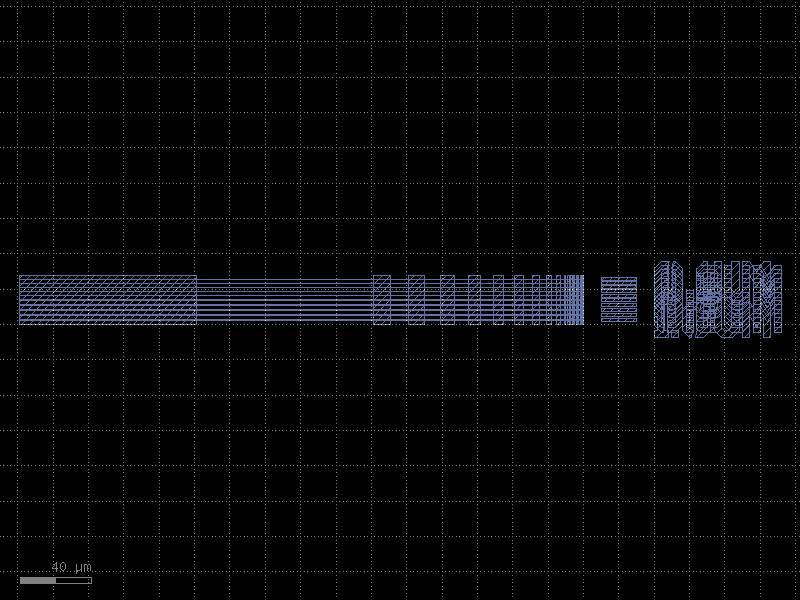
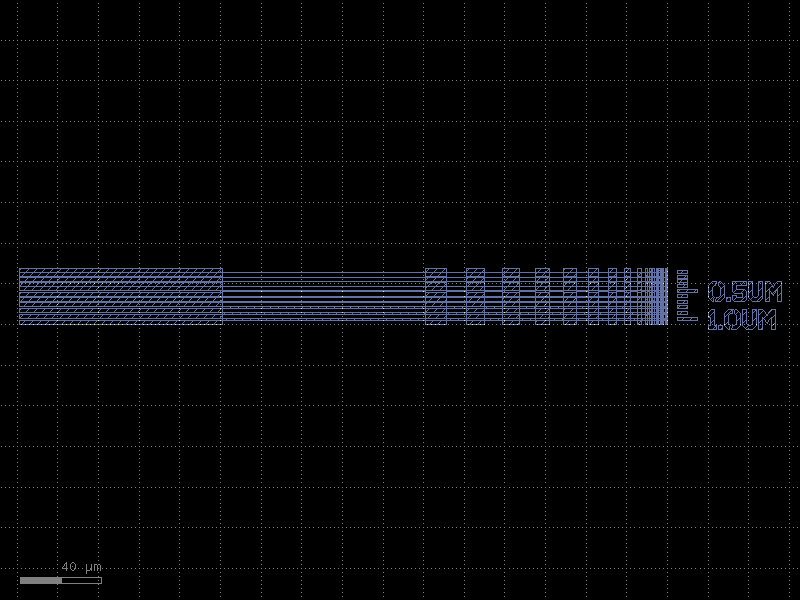
change checkerboard default args nd docstring

Changed region(s): [[0.0, 0.42, 1.0, 0.57], [0.0625, 0.93, 0.125, 0.96]]

diff --git a/src/qnngds/test_structures.py b/src/qnngds/test_structures.py
@@ -374,15 +374,15 @@ def _litho_steps(
 def litho_checkerboard(
     resolutions: List[float] = [0.1, 0.2, 0.3, 0.4, 0.5, 0.6, 0.7, 0.8, 0.9, 1.0],
     layer: LayerSpec = (2, 0),
-    label_interval: int = -1,
-    label_size: float = 20,
+    label_interval: int = 5,
+    label_size: float = 10,
 ) -> gf.Component:
     """Creates crossed lith_steps pattern for lithographic resolution test
 
     Args:
         resolutions (List[float]): List of resolutions (in µm) to be tested.
         layer (LayerSpec): GDS layer tuple (layer, type)
-        label_interval (bool): how often to label (set to -1 to disable all labels)
+        label_interval (bool): how often to label (set to 0 to disable all labels)
         label_size (float): size of text label
 
     Returns:
